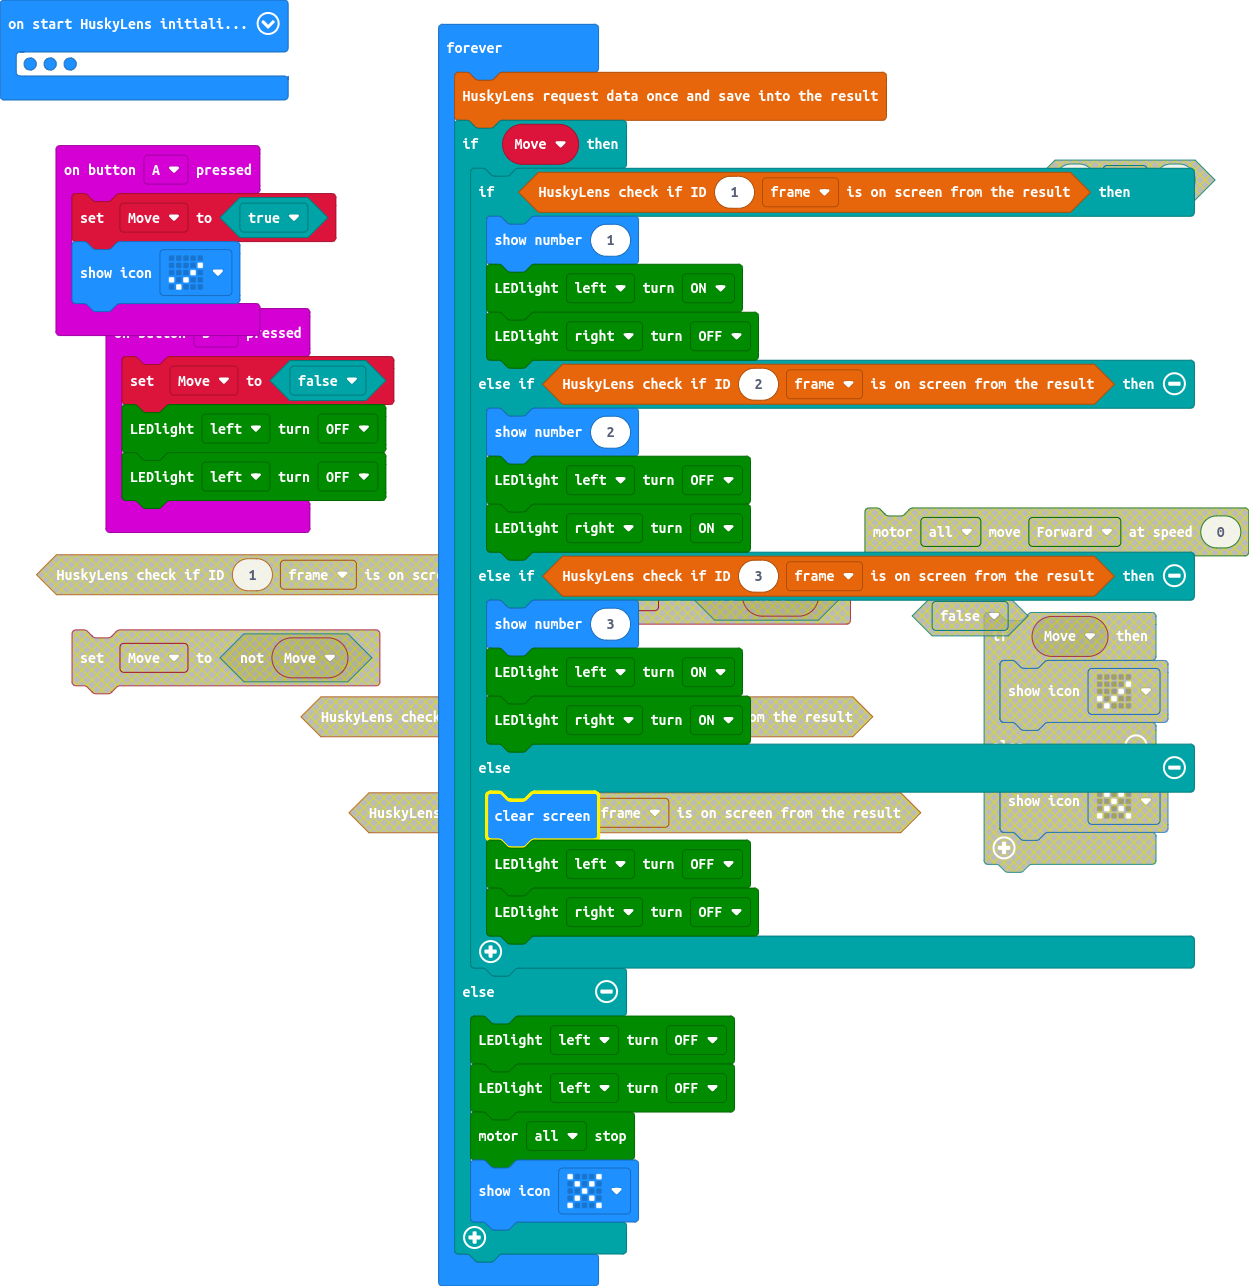
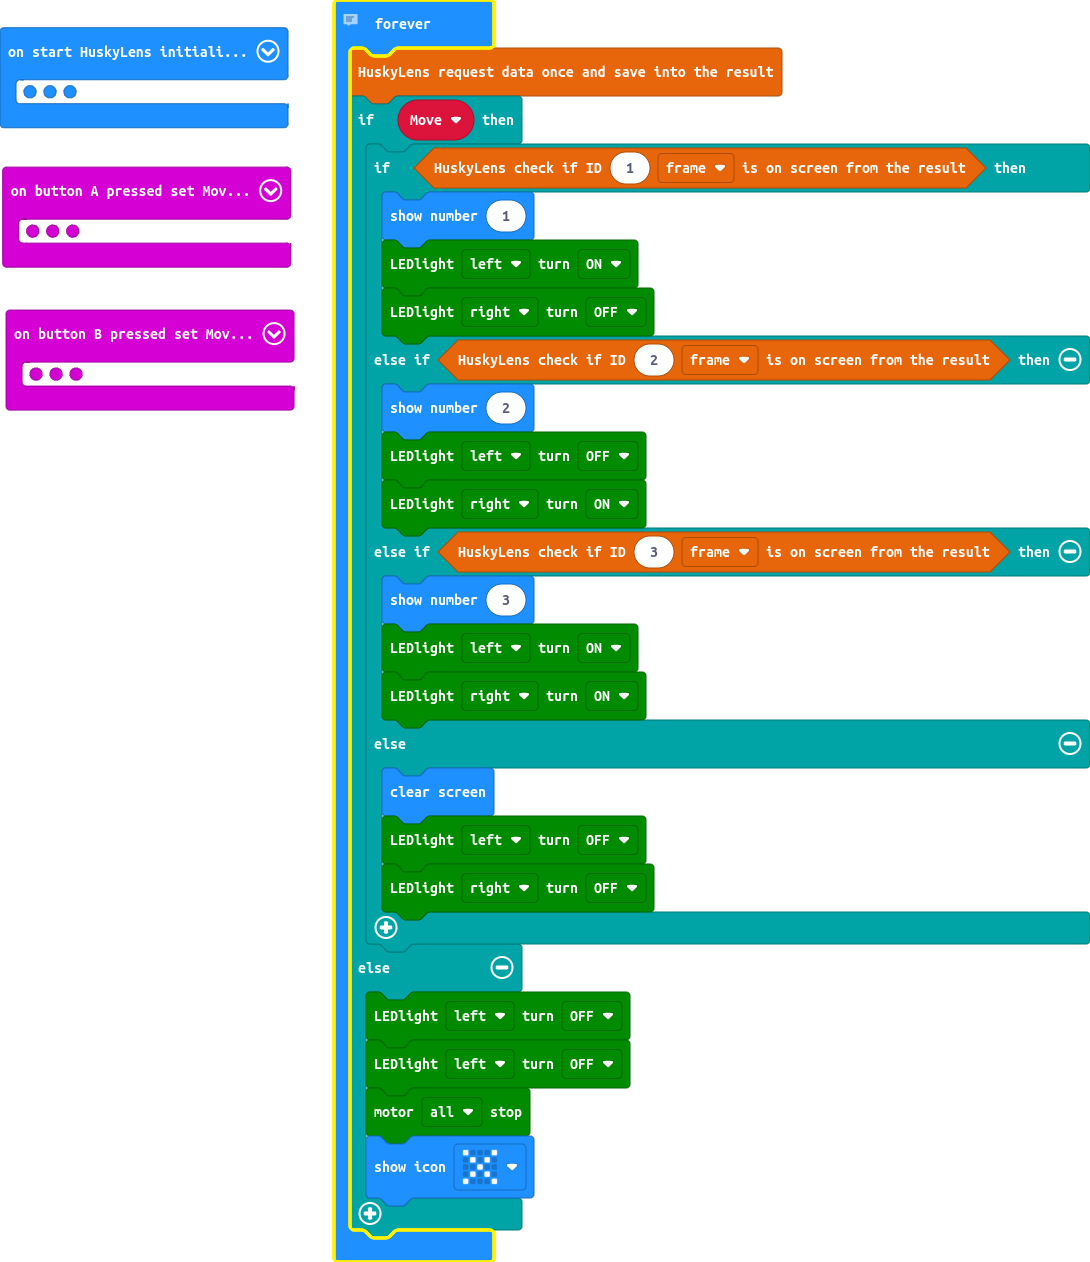
added basic comments to blocks

diff --git a/main.ts b/main.ts
@@ -1,12 +1,29 @@
-input.onButtonPressed(Button.A, function () {
-    Move = true
-    basic.showIcon(IconNames.Yes)
-})
+// Set MOVE variable to FALSE to "deactivate" the display part of the FOREVER block
+// 
+// Also turn off both Maqueen LED
 input.onButtonPressed(Button.B, function () {
     Move = false
     maqueen.writeLED(maqueen.LED.LEDLeft, maqueen.LEDswitch.turnOff)
     maqueen.writeLED(maqueen.LED.LEDLeft, maqueen.LEDswitch.turnOff)
 })
+// Set MOVE variable to TRUE - this "activates" the display loop in the FOREVER block
+// 
+// Display TICK icon to show it has been activated
+input.onButtonPressed(Button.A, function () {
+    Move = true
+    basic.showIcon(IconNames.Yes)
+    basic.pause(1000)
+})
+// Start Communication between HuskyLens & Micro:Bit
+// 
+// Clear Micro:Bit Screen
+// 
+// Set MOVE variable to FALSE
+// 
+// Display MAN icon to show system is ready
+// 
+// If you don't get this far check the connections between HUSKYLENS & Micro:Bit
+// Also Check correct Protocol is set on HUSKYLENS as well as make sure the HUSKYLENS is getting adequate power
 let Move = false
 huskylens.initI2c()
 huskylens.initMode(protocolAlgorithm.ALGORITHM_TAG_RECOGNITION)
@@ -14,6 +31,12 @@ maqueen.motorStop(maqueen.Motors.All)
 basic.clearScreen()
 Move = false
 basic.showIcon(IconNames.StickFigure)
+// Request latest result from HUSKYLENS at start of FOREVER so that each time it repeats it has the latest result
+// 
+// If MOVE variable is set to TRUE - show the recognised ID# from the HUSKYLENS & display its number / light LED based on the result
+// 
+// If MOVE is set to FALSE turn off BOTH MaQueen LED & Display X on MicroBit
+// 
 basic.forever(function () {
     huskylens.request()
     if (Move) {
